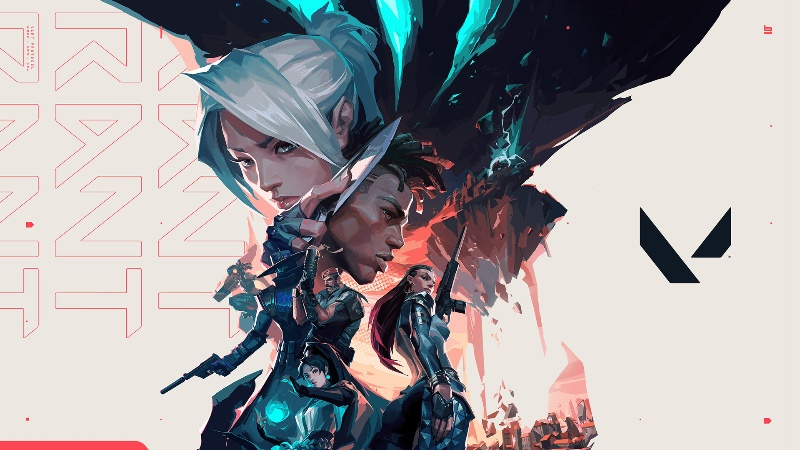
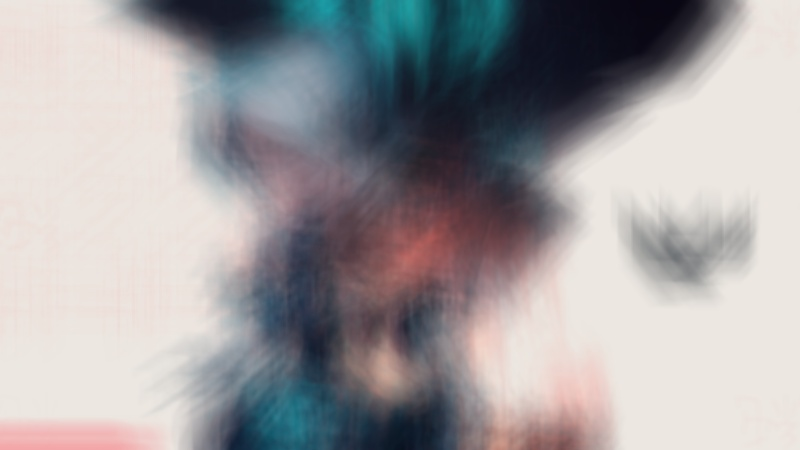
feat: 課題2用の暫定ロジックを追加

diff --git a/Kadai2/Kadai2/Kadai2.cpp b/Kadai2/Kadai2/Kadai2.cpp
@@ -27,8 +27,11 @@ using namespace std;
 int main() {
 
     // 画像ファイルを読み込む
-    Mat srcImg = imread("./img/in.jpg");
-    if (srcImg.empty()) {
+    Mat srcImg    = imread("./img/in.jpg");
+    // フィルタ用画像をグレースケールで読み込む
+    Mat filterImg = imread("./img/psf.png", 0);
+    // 読み込んだ画像のNULLチェック
+    if (srcImg.empty() || filterImg.empty()) {
         return -1;
     }
 
@@ -39,15 +42,27 @@ int main() {
     // アスペクト比を保持した高さ
     int height = aspectRatio * width;
 
-    // 出力用画像領域の確保
-    Mat dstImg(height, width, srcImg.type());
+    // リサイズ用画像領域の確保
+    Mat resizeImg(height, width, srcImg.type());
     // リサイズ
-    resize(srcImg, dstImg, dstImg.size());
+    resize(srcImg, resizeImg, resizeImg.size());
+
+    // 画像をdouble型に変換
+    filterImg.convertTo(filterImg, CV_64F);
+    // 総和を求める
+    double sumImg = (double) sum(filterImg)[0];
+    // 総和で割る（総和が1 になる＝画像明るさ保存）
+    filterImg = filterImg * (1. / sumImg);
+
+    // 出力用画像領域の確保
+    Mat outImg(height, width, srcImg.type());
+    // リサイズした画像にフィルターをかける
+    filter2D(resizeImg, outImg, 8, filterImg);
 
     // 出力画像を表示
-    imshow("img", dstImg);
+    imshow("img", outImg);
     // 出力画像を保存
-    imwrite("./img/out.jpg", dstImg);
+    imwrite("./img/out.jpg", outImg);
 
     // キーボードが押されるまで処理を待つ
     waitKey(0);
